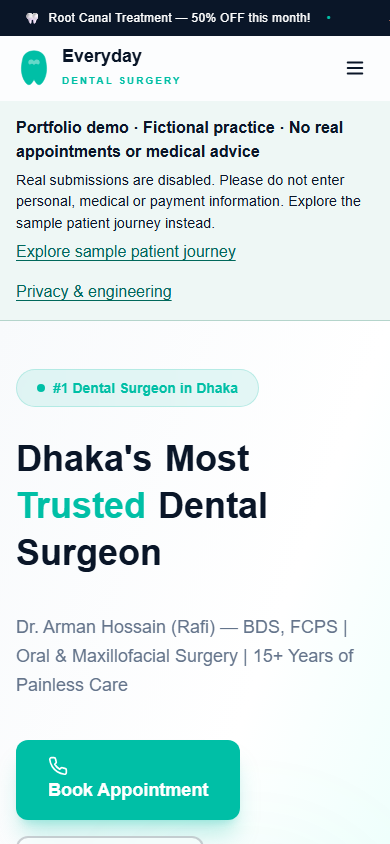
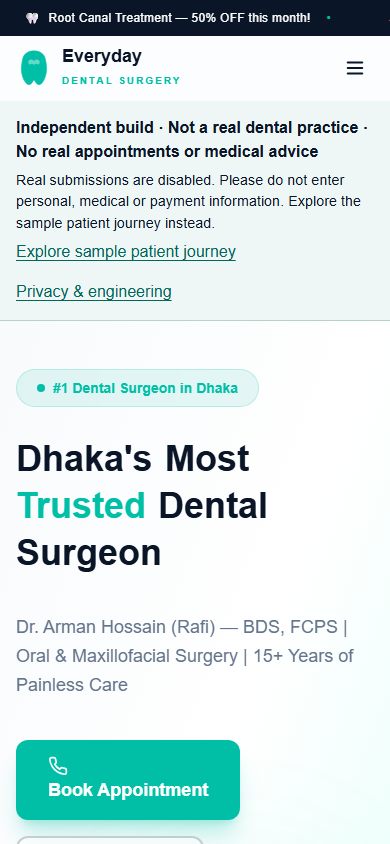
Describe the project as an independent build on sample data
Replace the old project labels in the site banner, page titles, trust
page, README, docs and screenshots with what is true: an independent
build, not a real dental practice, running on sample data. No behaviour
changes. Pin text files to LF so the generated nginx headers match the
live release byte for byte.

Changed region(s): [[0.0308, 0.1232, 0.9231, 0.1848]]

diff --git a/src/pages/DemoPage.jsx b/src/pages/DemoPage.jsx
@@ -16,12 +16,12 @@ export default function DemoPage() {
     setEvents(items => [{ role, action, outcome: result.outcome }, ...items].slice(0, runtime.maxAuditEvents));
     if (action === 'export' && result.outcome === 'allowed') {
       const url = URL.createObjectURL(new Blob([JSON.stringify(sampleBundle(), null, 2)], { type: 'application/fhir+json' }));
-      const link = document.createElement('a'); link.href = url; link.download = 'synthetic-patient.fhir.json'; link.click();
+      const link = document.createElement('a'); link.href = url; link.download = 'sample-patient.fhir.json'; link.click();
       setTimeout(() => URL.revokeObjectURL(url), 0);
     }
   }
   return <section className="review-page">
-    <Helmet><title>Patient journey demo — Everyday Dental</title></Helmet>
+    <Helmet><title>Sample patient journey | Everyday Dental</title></Helmet>
     <h1>{demo.title}</h1><p>{demo.intro}</p>
     <p><strong>Role selection is a simulation, not a login.</strong> The production design requires verified identity and server-enforced authorization.</p>
     <label htmlFor="demo-role">View as </label>
@@ -37,11 +37,11 @@ export default function DemoPage() {
     </div>
     <p role="status" aria-live="polite" className="review-notice">{message}</p>
     <h2>Cross-patient access example</h2>
-    <p>Current role accessing another synthetic patient’s clinical record: <strong>{canAccess(role, 'clinical', demo.otherPatientId) ? 'Allowed in this simplified policy' : 'Denied'}</strong>.</p>
+    <p>Current role accessing another sample patient’s clinical record: <strong>{canAccess(role, 'clinical', demo.otherPatientId) ? 'Allowed in this simplified policy' : 'Denied'}</strong>.</p>
     <p>Real staff access additionally needs assigned-care scope, purpose checks, tenant isolation and monitored emergency access.</p>
-    <h2>Session activity</h2><p>This temporary list demonstrates outcomes. It is not an immutable server audit log.</p>
+    <h2>Session activity</h2><p>This temporary list shows outcomes. It is not an immutable server audit log.</p>
     <ol>{events.map((e,i) => <li key={i}>{e.role} · {e.action} · {e.outcome}</li>)}</ol>
-    <button onClick={() => { setState(initialDemo()); setEvents([]); setRole('patient'); setMessage('Example reset.'); }}>Reset demonstration</button>
+    <button onClick={() => { setState(initialDemo()); setEvents([]); setRole('patient'); setMessage('Example reset.'); }}>Reset example</button>
     <p><Link to="/trust">Read privacy, security and scaling information</Link></p>
   </section>;
 }

diff --git a/tests/browser/demo.spec.js b/tests/browser/demo.spec.js
@@ -6,7 +6,7 @@ for (const route of paths) test(`route ${route}: no external traffic, no active 
  page.on('request',r=>{if(!r.url().startsWith('data:') && !r.url().startsWith('blob:') && new URL(r.url()).origin!==new URL(test.info().project.use.baseURL).origin)requests.push(r.url());});
  page.on('pageerror',e=>errors.push(e.message));
  await page.goto(route); await expect(page.getByRole('main')).toBeVisible();
- await expect(page.getByLabel('Demonstration notice')).toBeVisible();
+ await expect(page.getByLabel('Site notice')).toBeVisible();
  await page.waitForTimeout(1100);
  expect(errors).toEqual([]);expect(requests).toEqual([]);
  expect(await page.locator('form').count()).toBe(0);
@@ -20,9 +20,9 @@ test('patient workflow: deny role, hold, erase, reset and export',async({page})=
  await page.getByLabel('View as').selectOption('admin');await page.getByRole('button',{name:'Toggle sample legal hold'}).click();
  await page.getByLabel('View as').selectOption('patient');await page.getByRole('button',{name:'Request sample erasure'}).click();
  await expect(page.getByRole('status')).toContainText('erased');
- await page.getByRole('button',{name:'Reset demonstration'}).click();
+ await page.getByRole('button',{name:'Reset example'}).click();
  const downloadPromise=page.waitForEvent('download');await page.getByRole('button',{name:'Export sample FHIR JSON'}).click();
- const download=await downloadPromise;expect(download.suggestedFilename()).toBe('synthetic-patient.fhir.json');
+ const download=await downloadPromise;expect(download.suggestedFilename()).toBe('sample-patient.fhir.json');
  expect(await page.evaluate(()=>Object.keys(localStorage))).not.toContain('eds-appointments');
  await page.reload();await expect(page.getByText('Legal hold:')).toContainText('Active');
 });

diff --git a/index.html b/index.html
@@ -3,15 +3,15 @@
   <head>
     <meta charset="UTF-8" />
     <meta name="viewport" content="width=device-width, initial-scale=1.0" />
-    <meta name="description" content="A fictional dental practice portfolio with a synthetic patient journey, privacy controls and transparent engineering documentation." />
+    <meta name="description" content="An independent build of a dental practice website with a sample patient journey, privacy controls and transparent engineering documentation. Not a real practice." />
     <meta name="robots" content="noindex, nofollow" />
     <meta name="theme-color" content="#0A1628" />
-    <title>Everyday Dental — Portfolio Demo</title>
+    <title>Everyday Dental | Independent Build</title>
     <link rel="icon" type="image/svg+xml" href="/icons/icon-512.svg" />
   </head>
   <body>
     <div id="root"></div>
-    <noscript>This demonstration needs JavaScript for its interactive interface. No real appointments are accepted.</noscript>
+    <noscript>Everyday Dental is not a real dental practice. This site needs JavaScript for its interactive interface. No real appointments are accepted.</noscript>
     <script type="module" src="/src/main.jsx"></script>
   </body>
 </html>

diff --git a/src/components/layout/Footer.jsx b/src/components/layout/Footer.jsx
@@ -129,7 +129,7 @@ const Footer = () => {
         <div className="max-w-7xl mx-auto px-4 md:px-8 py-4 flex flex-col md:flex-row items-center justify-between gap-4 text-sm text-gray-500">
           <p>&copy; 2026 Everyday Dental Surgery & Implant Center. {t({ en: 'All rights reserved.', bn: 'সর্বস্বত্ব সংরক্ষিত।' })}</p>
           <div className="flex flex-wrap gap-6">
-            <Link to="/experience">Patient demo</Link>
+            <Link to="/experience">Sample patient journey</Link>
             <Link to="/trust">Privacy & engineering</Link>
             <Link to="/privacy-policy" className="hover:text-teal cursor-pointer transition-colors">{t({ en: 'Privacy Policy', bn: 'গোপনীয়তা নীতি' })}</Link>
             <Link to="/terms" className="hover:text-teal cursor-pointer transition-colors">{t({ en: 'Terms & Conditions', bn: 'শর্তাবলী' })}</Link>

diff --git a/src/components/ui/DemoNotice.jsx b/src/components/ui/DemoNotice.jsx
@@ -1,8 +1,8 @@
 import { Link } from 'react-router-dom';
 import demo from '../../data/demo.json';
 export default function DemoNotice() {
-  return <aside className="demo-notice" aria-label="Demonstration notice">
+  return <aside className="demo-notice" aria-label="Site notice">
     <strong>{demo.banner}</strong><p>{demo.intakeNotice}</p>
-    <nav aria-label="Demonstration links"><Link to="/experience">Explore sample patient journey</Link><Link to="/trust">Privacy & engineering</Link></nav>
+    <nav aria-label="Notice links"><Link to="/experience">Explore sample patient journey</Link><Link to="/trust">Privacy & engineering</Link></nav>
   </aside>;
 }

diff --git a/src/pages/ContactPage.jsx b/src/pages/ContactPage.jsx
@@ -512,7 +512,7 @@ const ContactPage = () => {
             ref={mapRef}
             className="max-w-5xl mx-auto rounded-2xl overflow-hidden shadow-xl border border-gray-100"
           >
-            <p className="p-8 text-center">Fictional demonstration location. No map is loaded automatically.</p>
+            <p className="p-8 text-center">Sample location, not a real clinic address. No map is loaded automatically.</p>
             {/* Fallback: Direct link to Google Maps */}
             <div className="bg-gray-50 p-4 text-center border-t border-gray-100">
               <a

diff --git a/tests/automated/robots.test.js b/tests/automated/robots.test.js
@@ -12,7 +12,7 @@ test('robots.txt lets LinkedIn build link previews but blocks every other crawle
  assert.deepEqual(group('*'), ['User-agent: *', 'Disallow: /']);
 });
 
-test('the demo stays noindex for search engines', () => {
+test('the site stays noindex for search engines', () => {
  const read = file => readFileSync(new URL(`../../${file}`, import.meta.url), 'utf8');
  assert.match(read('index.html'), /<meta name="robots" content="noindex, nofollow"/);
  assert.match(read('src/App.jsx'), /<meta name="robots" content="noindex, nofollow"/);

diff --git a/src/config/runtime.js b/src/config/runtime.js
@@ -6,7 +6,7 @@ export function readRuntime(env) {
     throw new Error('VITE_SITE_URL must be an HTTPS origin without credentials or query parameters.');
   }
   if (env.VITE_APP_MODE && env.VITE_APP_MODE !== 'synthetic') {
-    throw new Error('This release supports synthetic demonstration mode only.');
+    throw new Error('Unsupported VITE_APP_MODE. See docs/DEVELOPMENT.md.');
   }
   return Object.freeze({
     mode: 'synthetic',

diff --git a/src/components/security/TurnstileWidget.jsx b/src/components/security/TurnstileWidget.jsx
@@ -11,7 +11,7 @@
 
 import { useEffect, useRef, useCallback } from 'react';
 
-const TURNSTILE_SITE_KEY = null; // No third-party challenge is loaded by the synthetic demo.
+const TURNSTILE_SITE_KEY = null; // No third-party challenge is loaded by this sample-data build.
 const SCRIPT_ID = 'cf-turnstile-script';
 
 export const isTurnstileConfigured = Boolean(TURNSTILE_SITE_KEY) && !TURNSTILE_SITE_KEY?.includes('placeholder');

diff --git a/src/lib/demo-policy.js b/src/lib/demo-policy.js
@@ -1,7 +1,7 @@
 // @ts-check
 import demo from '../data/demo.json' with { type: 'json' };
 
-/** Demonstration policy only. Never use a browser-selected role as server authorization.
+/** Sample policy only. Never use a browser-selected role as server authorization.
  * @param {string} role @param {string} action @param {string} subject
  */
 export function canAccess(role, action, subject) {

diff --git a/src/lib/supabase.js b/src/lib/supabase.js
@@ -1,4 +1,4 @@
-// The public demo deliberately has no clinical client or service credentials.
+// The public site deliberately has no clinical client or service credentials.
 // A production integration requires the separate release gates in docs/CLINICAL-RELEASE.md.
 export const isSupabaseConfigured = false;
 export const supabase = null;

diff --git a/src/lib/stripe.js b/src/lib/stripe.js
@@ -6,7 +6,7 @@
 
 import { supabase, isSupabaseConfigured } from './supabase';
 
-const STRIPE_PK = null; // Payments are outside the synthetic release boundary.
+const STRIPE_PK = null; // Payments are outside the sample-data release boundary.
 
 export const isStripeConfigured = false;
 
